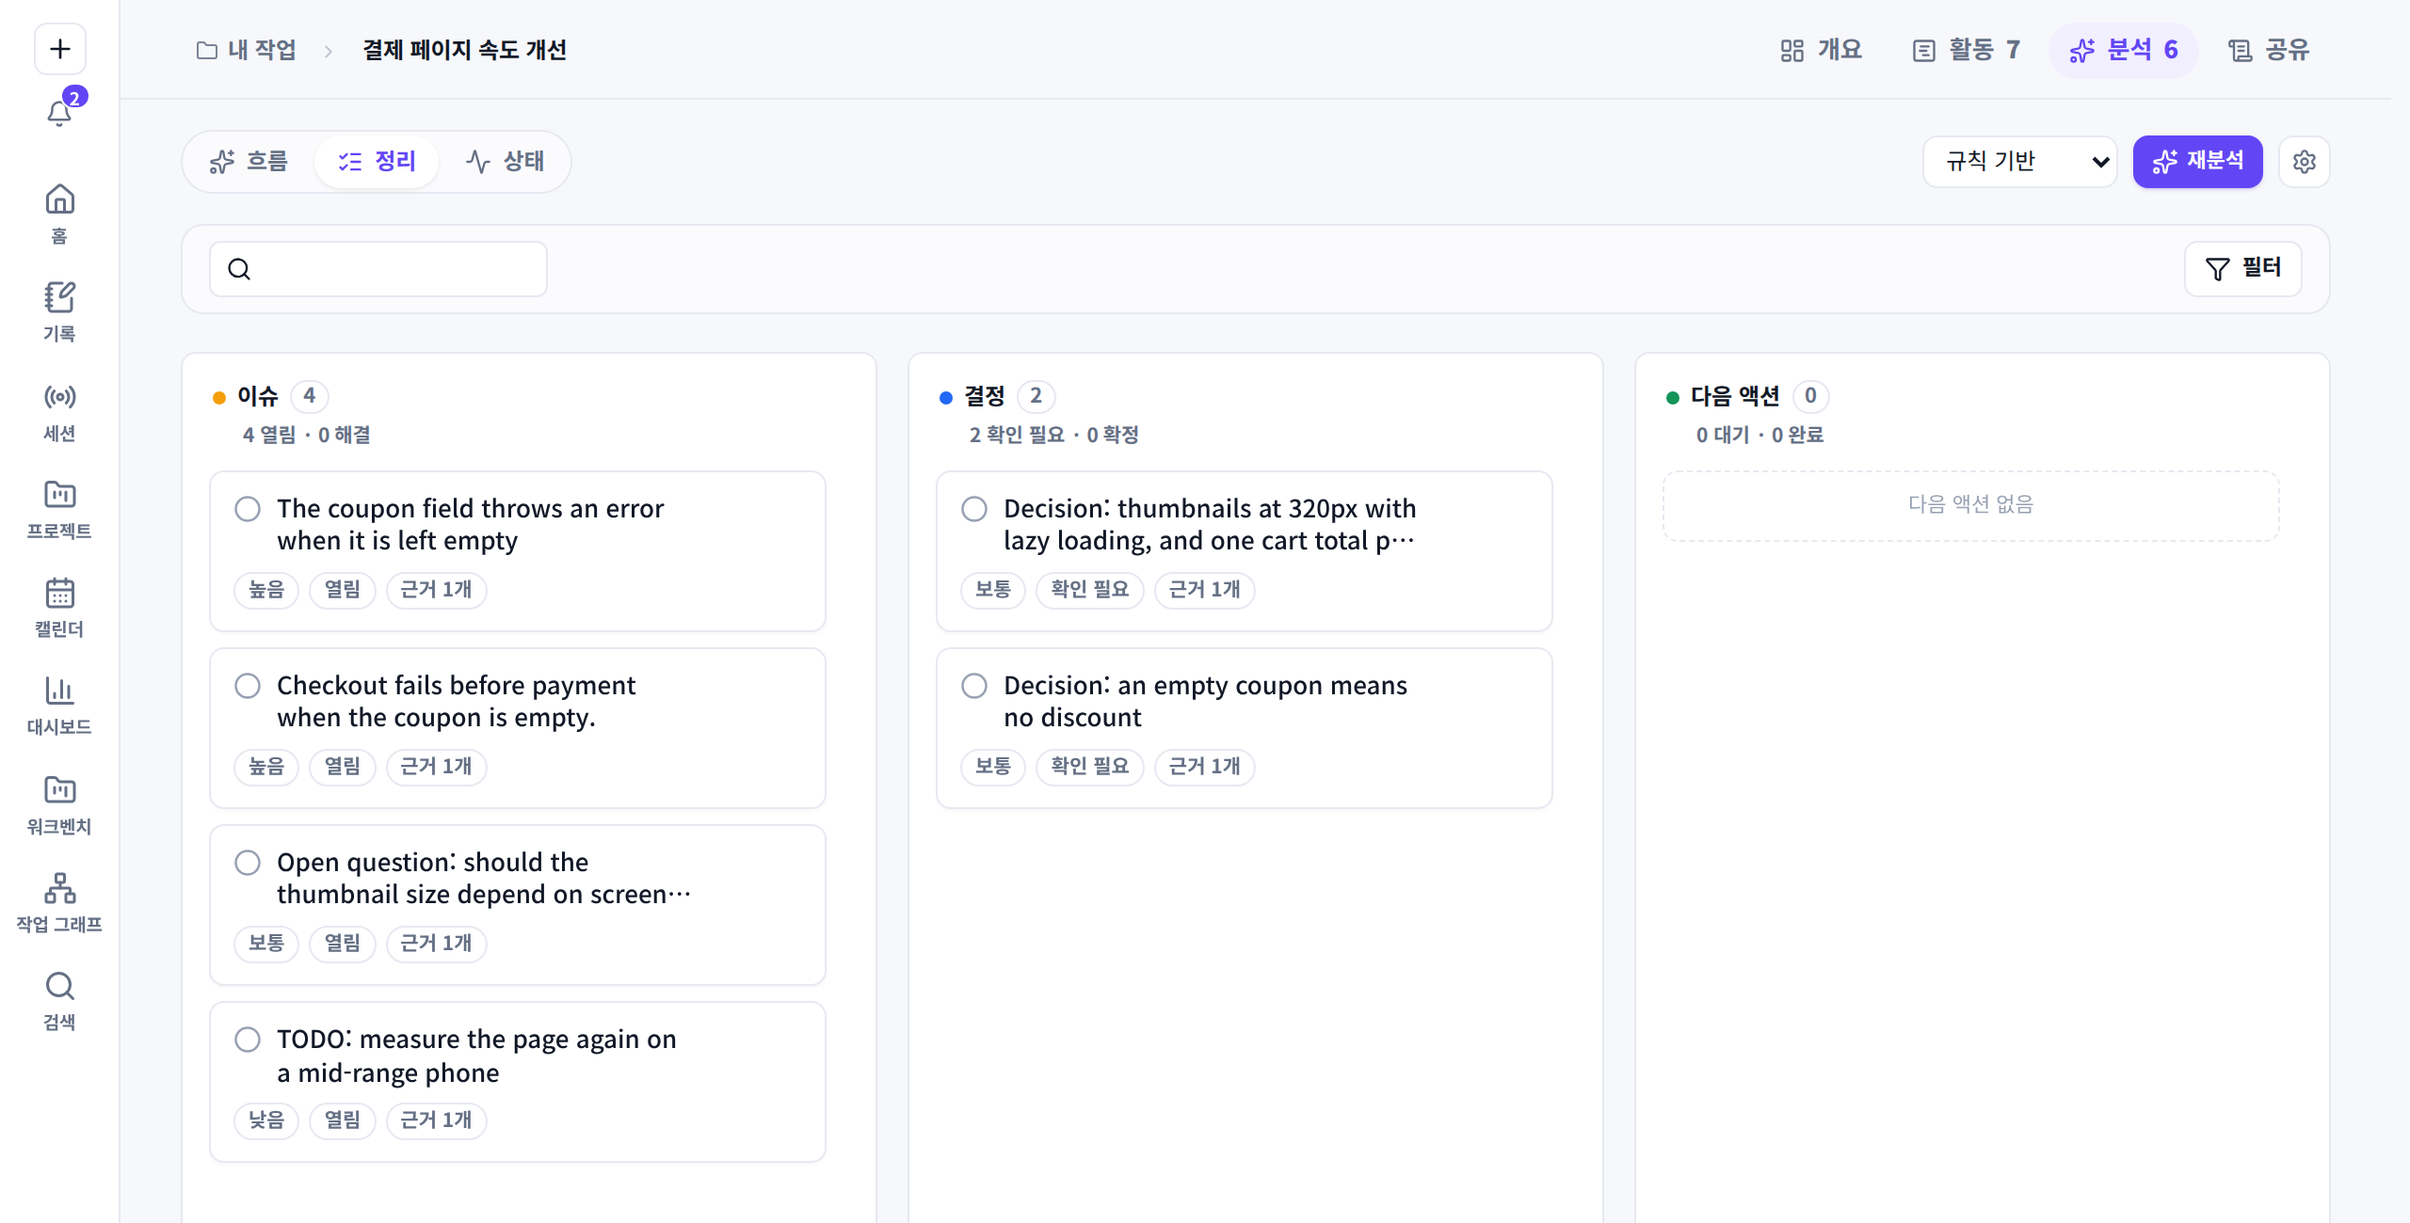
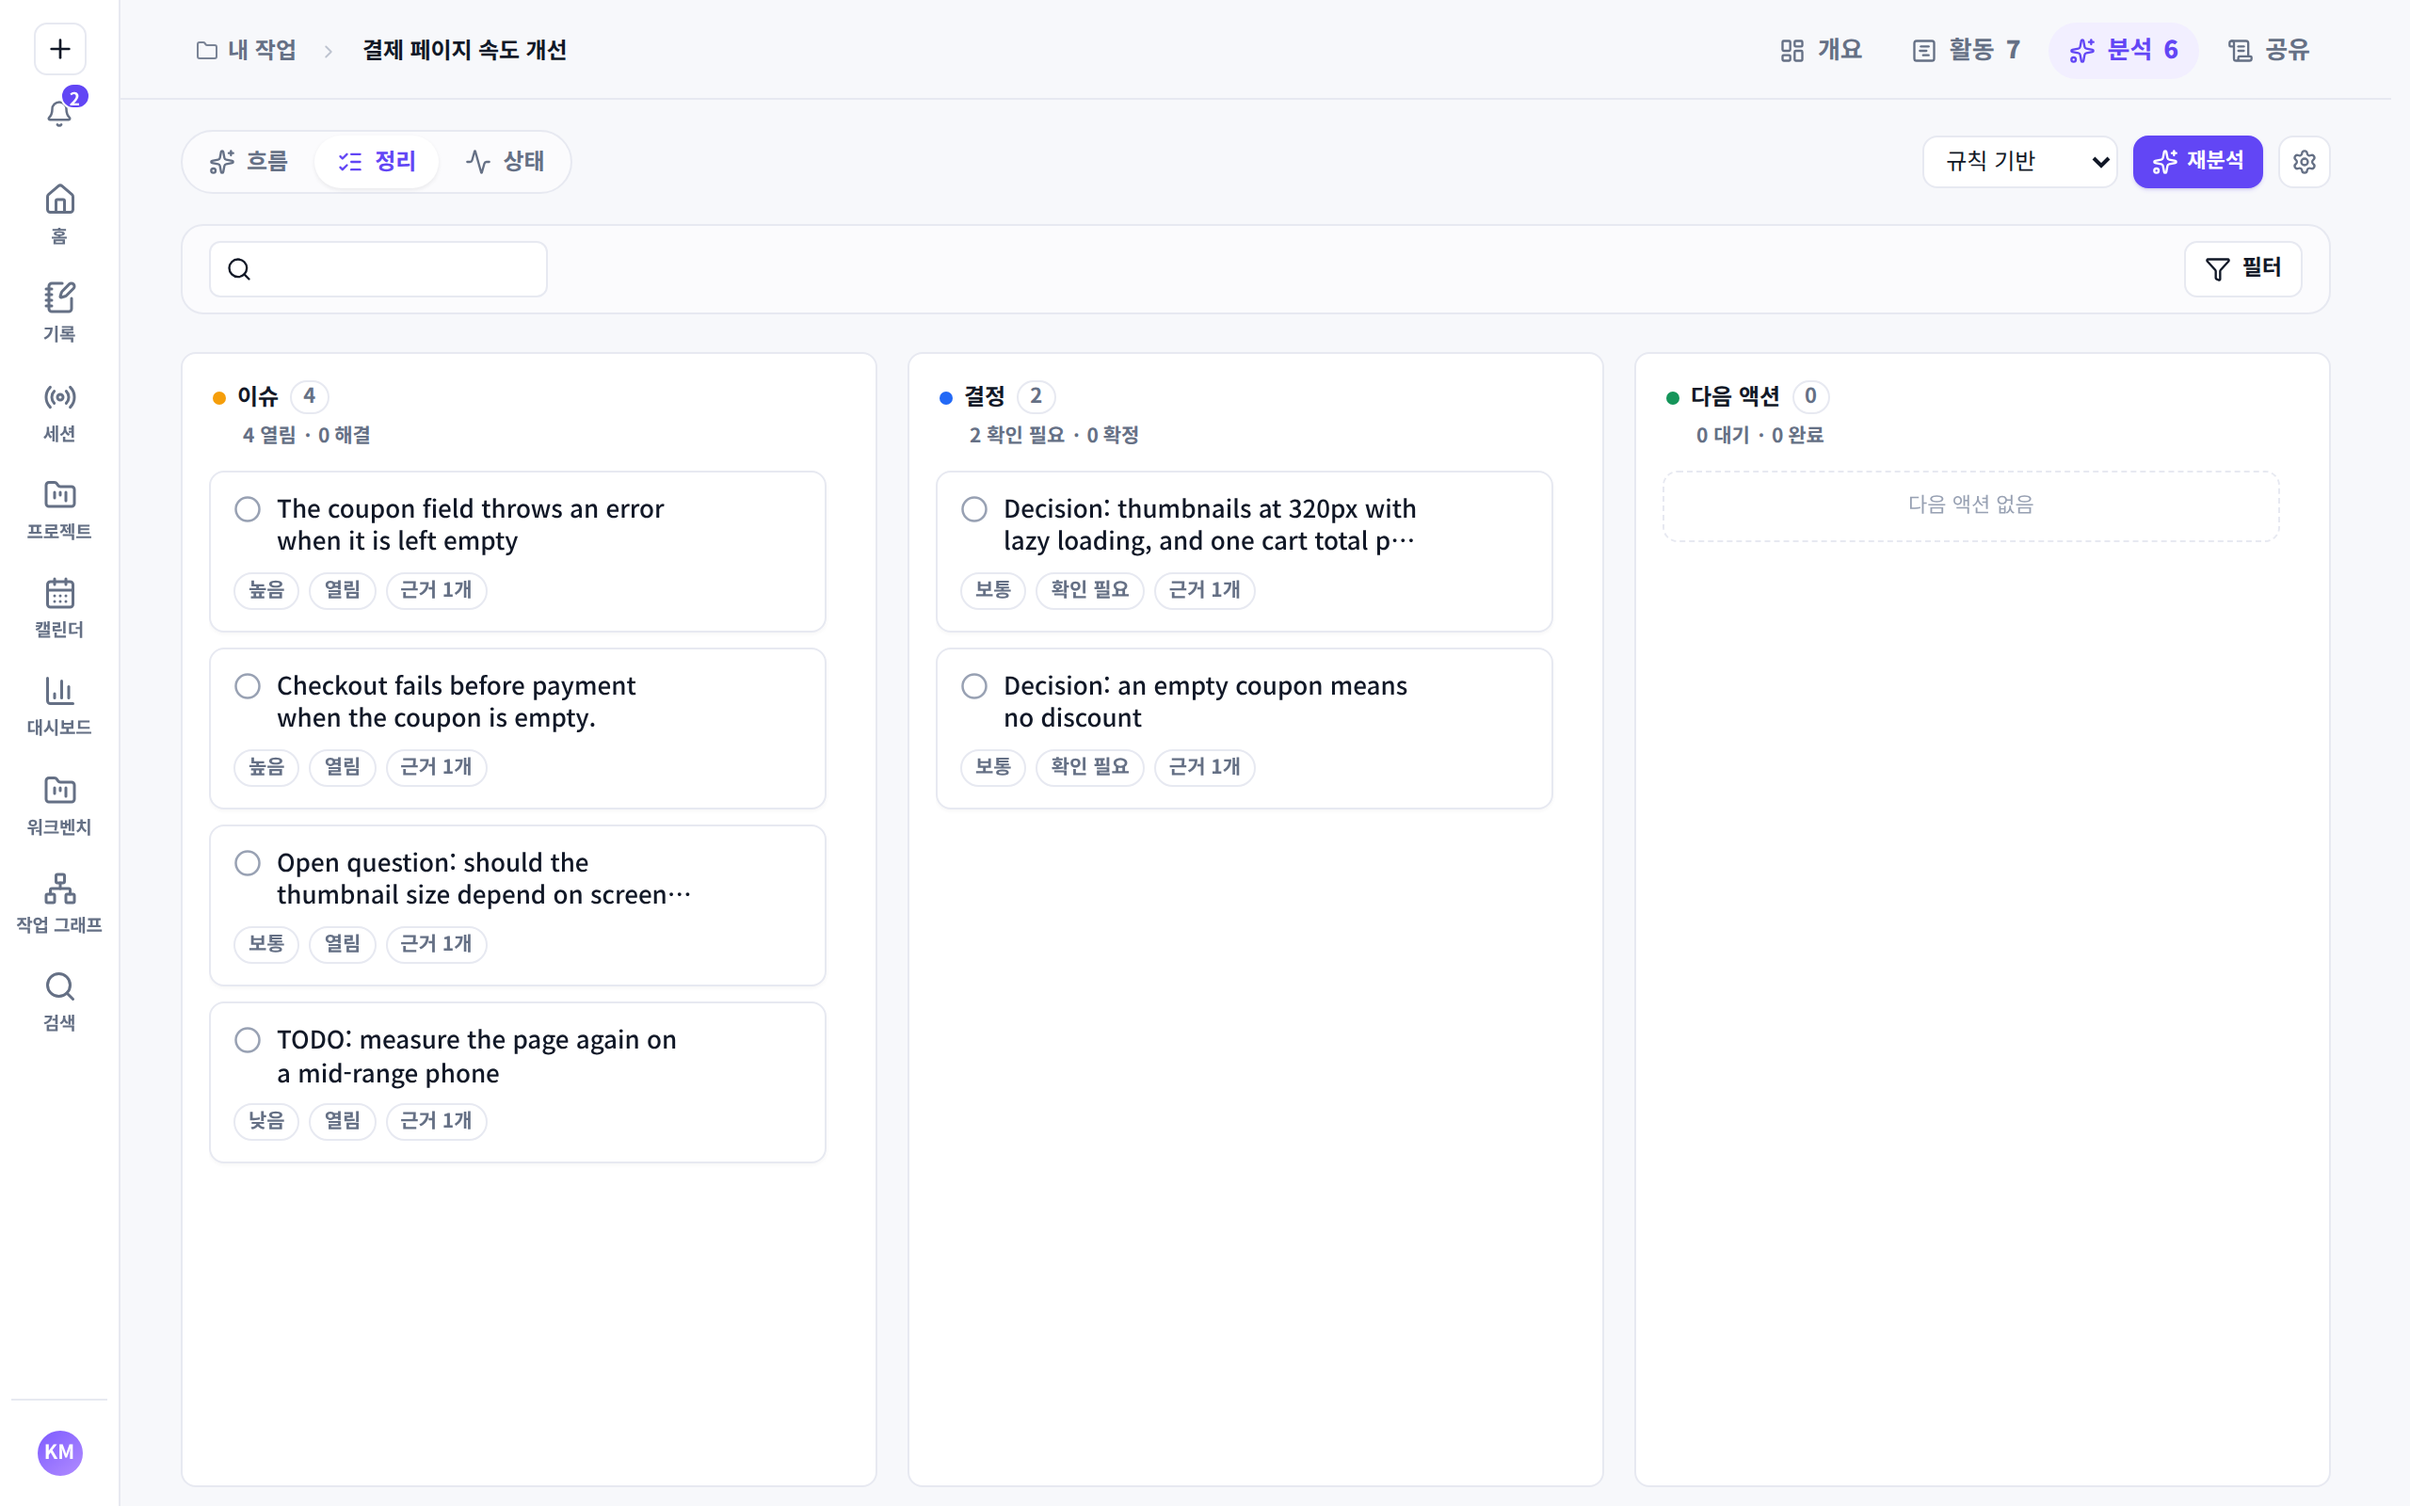
docs: show the whole window in the README screenshots
- The records and review screenshots were cropped below their content, which cut the app window's bottom edge, so the sidebar and the board's columns ended mid-frame
- Use the full 1280 by 800 window at 2x for every screenshot

diff --git a/docs/assets/screenshots/README.md b/docs/assets/screenshots/README.md
@@ -36,8 +36,8 @@ What stays here:
 
 These are screenshots of Mori itself, used in the README. They were taken on
 2026-11-05 from the browser build (`npm run dev`) in a 1280×800 window at 2×
-pixel density, driven by Playwright in headless Chromium, and cropped below the
-content. The browser build runs the same interface as
+pixel density, driven by Playwright in headless Chromium. Each shows the whole
+window, uncropped. The browser build runs the same interface as
 the desktop app, with the browser store instead of SQLite.
 
 - `mori-home.png` shows the built-in demo data (the
